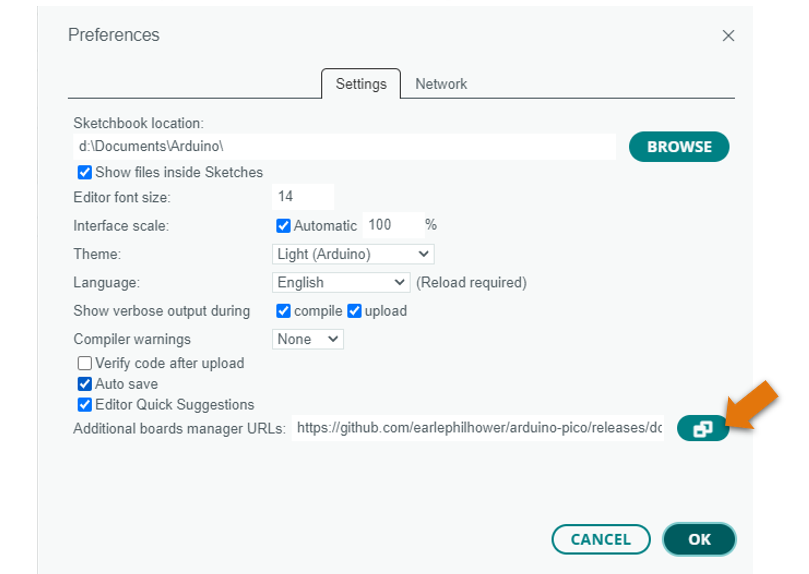
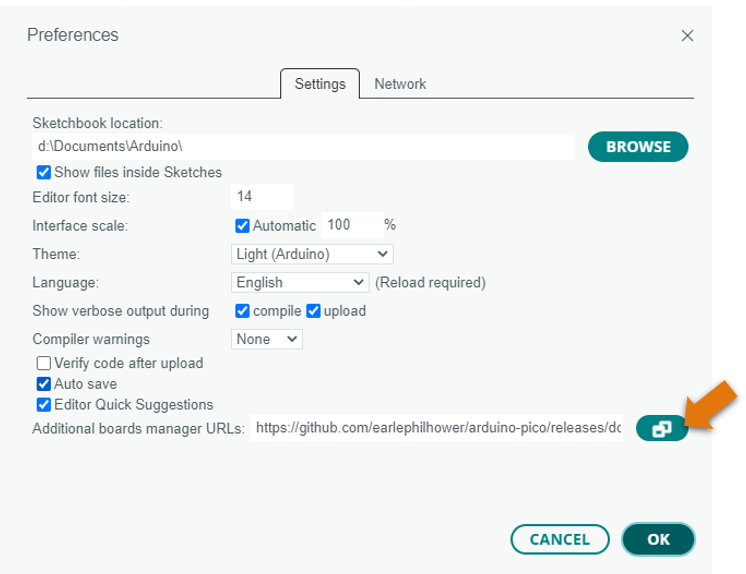
update ArduinoIDE

diff --git a/docs/source/fnk0083/codes/C/Preface.rst b/docs/source/fnk0083/codes/C/Preface.rst
@@ -245,77 +245,68 @@ If you still haven't installed the CH340 by following the steps above, you can v
     :align: center
 
 Programming Software
-****************************************
+****************************************************************
 
 Arduino Software (IDE) is used to write and upload the code for Arduino Board.
 
-First, install Arduino Software (IDE): visit https://www.arduino.cc, click "Download" to enter the download page.
+First, install Arduino Software (IDE): visit https://www.arduino.cc/en/software/
 
-.. image:: ../_static/imgs/Preface/Preface32.png
+.. image:: ../_static/imgs/ArduinoIDE/Preface03.png
+    :align: center
+    :width: 99%
+    :class: image-border
+
+Select and download corresponding installer based on your operating system. If you are a Windows user, please select the "Windows" to download and install the driver correctly.
+
+.. image:: ../_static/imgs/ArduinoIDE/Preface04.png
     :align: center
 
-Select and download corresponding installer according to your operating system. If you are a windows user, please select the "Windows Installer" to download to install the driver correctly.
+After the downloading completes, run the installer. For Windows users, there may pop up an installation dialog box of driver during the installation process. When it is popped up, please allow the installation.
 
-.. image:: ../_static/imgs/Preface/Preface33.png
+After installation is completed, an shortcut will be generated in the desktop.
+
+.. image:: ../_static/imgs/ArduinoIDE/Preface05.png
     :align: center
 
-After the download completes, run the installer. For Windows users, there may pop up an installation dialog box of driver during the installation process. When it popes up, please allow the installation.
+Run it. The interface of the software is as follows:
 
-After installation is complete, an Arduino Software shortcut will be generated in the desktop. Run the Arduino Software.
-
-.. image:: ../_static/imgs/Preface/Preface34.png
+.. image:: ../_static/imgs/ArduinoIDE/Preface06.png
     :align: center
 
-The interface of Arduino Software is as follows:
+Programs written with Arduino IDE are called sketches. These sketches are written in a text editor and are saved with the file extension.ino. The editor has features for cutting/pasting and for searching/replacing text. The console displays text output by the Arduino IDE, including complete error messages and other information. The bottom right-hand corner of the window displays the configured board and serial port. The toolbar buttons allow you to verify and upload programs, open the serial monitor, and access the serial plotter.
 
-.. image:: ../_static/imgs/Preface/Preface35.png
+.. table::
     :align: center
+    :class: table-line
+    :width: 80%
+    
+    +-------------+---------------------------------------------------------------------+
+    | |Arduino07| | Verify                                                              |
+    |             |                                                                     |
+    |             | Checks your code for errors compiling it.                           |
+    +-------------+---------------------------------------------------------------------+
+    | |Arduino08| | Upload                                                              |
+    |             |                                                                     |
+    |             | Compiles your code and uploads it to the configured board.          |
+    +-------------+---------------------------------------------------------------------+
+    | |Arduino09| | Debug                                                               |
+    |             |                                                                     |
+    |             | Troubleshoot code errors and monitor program running status.        |
+    +-------------+---------------------------------------------------------------------+
+    | |Arduino10| | Serial Plotter                                                      |
+    |             |                                                                     |
+    |             | Real-time plotting of serial port data charts.                      |
+    +-------------+---------------------------------------------------------------------+
+    | |Arduino11| | Serial Monitor                                                      |
+    |             |                                                                     |
+    |             | Used for debugging and communication between devices and computers. |
+    +-------------+---------------------------------------------------------------------+
 
-Programs written with Arduino Software (IDE) are called **sketches** . These sketches are written in the text editor and saved with the file extension **.ino** . The editor has features for cutting/pasting and searching/replacing text. The message area gives feedback while saving and exporting and also displays errors. The console displays text output by the Arduino Software (IDE), including complete error messages and other information. The bottom right-hand corner of the window displays the configured board and serial port. The toolbar buttons allow you to verify and upload programs, create, open, and save sketches, and open the serial monitor.
-
-.. list-table:: 
-   :width: 100%
-   :align: center
-   
-   * -  |Preface36|
-     -  Verify 
-      
-        Check your code for compile errors.
-
-   * -  |Preface37|
-     -  Upload 
-      
-        Compile your code and upload them to the configured board. 
-
-   * -  |Preface38|
-     -  Debug
-      
-        Debug code running on the board. (Some development boards do not 
-        
-        support this function)
-   * -  |Preface39|
-     -  Development board selection
-      
-        Configure the support package and upload port of the development board.
-
-   * -  |Preface40|
-     -  Serial Plotter
-      
-        Receive serial port data and plot it in a discounted graph.
-
-   * -  |Preface41|
-     -  Serial Monitor 
-      
-        Open the serial monitor. 
-
-.. |Preface36| image:: ../_static/imgs/Preface/Preface36.png
-.. |Preface37| image:: ../_static/imgs/Preface/Preface37.png
-.. |Preface38| image:: ../_static/imgs/Preface/Preface38.png
-.. |Preface39| image:: ../_static/imgs/Preface/Preface39.png
-.. |Preface40| image:: ../_static/imgs/Preface/Preface40.png
-.. |Preface41| image:: ../_static/imgs/Preface/Preface41.png
-
-Additional commands are found within the five menus: File, Edit, Sketch, Tools, Help. The menus are context sensitive, which means only those items relevant to the work currently being carried out are available.
+.. |Arduino07| image:: ../_static/imgs/ArduinoIDE/Preface07.png
+.. |Arduino08| image:: ../_static/imgs/ArduinoIDE/Preface08.png
+.. |Arduino09| image:: ../_static/imgs/ArduinoIDE/Preface09.png
+.. |Arduino10| image:: ../_static/imgs/ArduinoIDE/Preface10.png
+.. |Arduino11| image:: ../_static/imgs/ArduinoIDE/Preface11.png
 
 Environment Configuration
 *********************************
@@ -329,6 +320,8 @@ Second, click on the symbol behind "Additional Boards Manager URLs"
 
 .. image:: ../_static/imgs/Preface/Preface43.png
     :align: center
+    :class: image-border
+    :width: 60%
 
 Third, fill in https://raw.githubusercontent.com/espressif/arduino-esp32/gh-pages/package_esp32_index.json in the new window, click OK, and click OK on the Preferences window again.
 
@@ -399,9 +392,14 @@ Cam Pin
 .. image:: ../_static/imgs/Preface/Preface50.png
     :align: center
 
+|
+
 .. list-table:: 
-   :width: 100%
+   :width: 50%
    :align: center
+   :widths: 1 1
+   :header-rows: 1
+   :class: text-center zebra
    
    * -  CAM_Pin
      -  GPIO_pin 